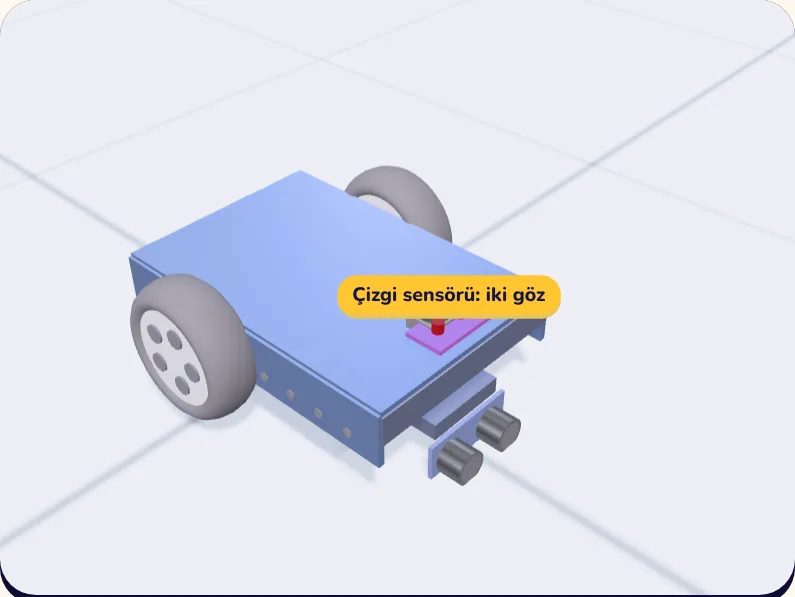
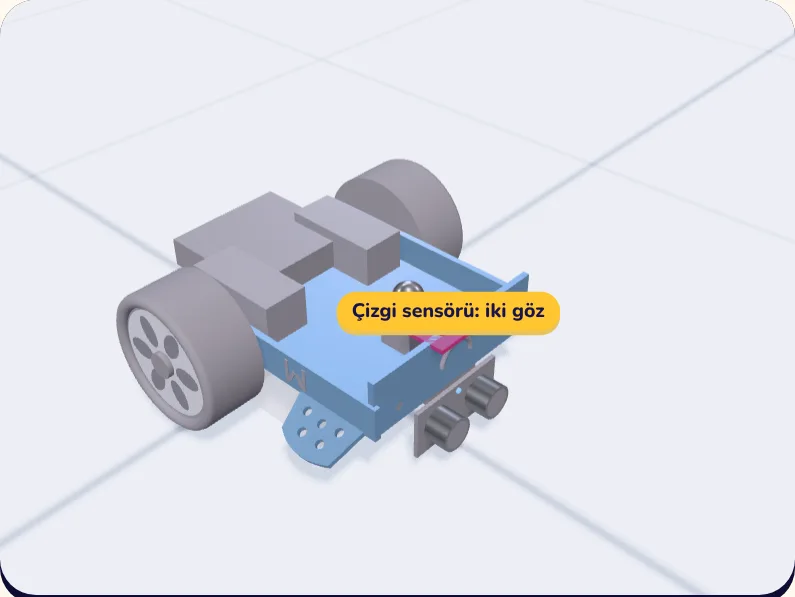
mBot 3D modeli ürün fotoğraflarına göre yenilendi
- Gülen yüzlü ön levha, ön köşelerde kalkık kanatlar, yanlarda "M" harfi
- mCore kartı pirinç ayaklar üstünde yarı saydam kutuda; üstte delik ızgarası ve renkli port etiketleri
- Siyah kartlı ultrasonik sensör, jantlı siyah tekerler
- Tanıtım sahnesi vurgusuz; mesafe sensörü için ayrı sahne

Changed region(s): [[0.1208, 0.2412, 0.7245, 0.8141]]

diff --git a/packages/sahne/src/mbot.ts b/packages/sahne/src/mbot.ts
@@ -1,48 +1,62 @@
-/* mBot (Makeblock, mCore): ürün bilgisinden (yaklaşık 170 × 130 × 90 mm) ve fotoğraflardan sade bir model.
-   - Mavi alüminyum şasi: taban levhası ve iki yanda katlanmış duvar.
-   - Üstte mCore kartı ve şeffaf kapak; kartın önünde iki RGB LED ve ışık sensörü.
-   - Önde ultrasonik mesafe sensörü: mavi kart ve iki gümüş "göz".
-   - Önde altta çizgi izleme sensörü (iki göz); arkada iki teker, önde sarhoş teker (bilye).
+/* mBot (Makeblock, mCore): ürün fotoğraflarından ve ürün bilgisinden (yaklaşık 170 × 130 × 90 mm) modellendi.
+   - Mavi alüminyum şasi: düz üst levha, önde aşağı inen yüz levhası (gülen ağız), iki yanda kısa etek ("M" harfi),
+     ön köşelerde yukarı kalkık delikli "kanatlar".
+   - mCore kartı yarı saydam beyaz bir kutunun içinde, pirinç ayaklar üstünde; kutunun üstünde delik ızgarası, kenarlarda renkli port etiketleri.
+   - Önde siyah kartlı ultrasonik sensör: iki gümüş göz (robotun "yüzü").
+   - Yüzün altında çizgi izleme sensörü; arkada iki büyük siyah teker, önde bilye teker.
    Eksenler: +X ileri, +Y yukarı, +Z sağ; orijin teker ekseninin ortası, yerde. Birim mm, kök 0,001 ölçekli. */
 import * as THREE from "three";
 
 const R = 32;          // teker yarıçapı (çap ≈ 64 mm)
-const TEKER_EN = 24;
-const TEKER_Z = 63;
-const TABAN_Y = 16;
+const TEKER_EN = 26;
+const TEKER_Z = 64;
+const UST_Y = 36;      // üst levhanın üst yüzü
+const ON_X = 92;       // yüz levhasının önü
 
 const M = {
-  sasi: new THREE.MeshStandardMaterial({ color: 0x1e7fd8, roughness: 0.38, metalness: 0.55 }),
-  sasiKoyu: new THREE.MeshStandardMaterial({ color: 0x0f4f93, roughness: 0.4, metalness: 0.5 }),
-  delik: new THREE.MeshStandardMaterial({ color: 0x0a2440, roughness: 0.6 }),
-  lastik: new THREE.MeshStandardMaterial({ color: 0x1b1c1f, roughness: 0.85 }),
-  gobek: new THREE.MeshStandardMaterial({ color: 0xe9edf2, roughness: 0.45 }),
-  pcb: new THREE.MeshStandardMaterial({ color: 0x1d2b4f, roughness: 0.45, metalness: 0.2 }),
-  pcbMavi: new THREE.MeshStandardMaterial({ color: 0x2167c9, roughness: 0.45 }),
-  kapak: new THREE.MeshPhysicalMaterial({ color: 0xdbe8ff, roughness: 0.08, transmission: 0.6, transparent: true, opacity: 0.35 }),
-  gumus: new THREE.MeshStandardMaterial({ color: 0xc9cfd6, roughness: 0.22, metalness: 0.95 }),
-  ag: new THREE.MeshStandardMaterial({ color: 0x2b2f36, roughness: 0.7 }),
+  sasi: new THREE.MeshStandardMaterial({ color: 0x2aa7e8, roughness: 0.32, metalness: 0.55, side: THREE.DoubleSide }),
+  delik: new THREE.MeshStandardMaterial({ color: 0x0b3550, roughness: 0.6, side: THREE.DoubleSide }),
+  agiz: new THREE.MeshStandardMaterial({ color: 0x0d2a40, roughness: 0.5 }),
+  lastik: new THREE.MeshStandardMaterial({ color: 0x18191c, roughness: 0.85, side: THREE.DoubleSide }),
+  dis: new THREE.MeshStandardMaterial({ color: 0xdfe3e8, roughness: 0.5, side: THREE.DoubleSide }),
+  gobek: new THREE.MeshStandardMaterial({ color: 0x2b2d31, roughness: 0.5 }),
+  kutu: new THREE.MeshPhysicalMaterial({ color: 0xf3f5f7, roughness: 0.35, transmission: 0.3, transparent: true, opacity: 0.72, depthWrite: false }),
+  kutuKenar: new THREE.MeshStandardMaterial({ color: 0xe6e9ed, roughness: 0.4 }),
+  pcb: new THREE.MeshStandardMaterial({ color: 0x1c3f7a, roughness: 0.45 }),
+  pcbSiyah: new THREE.MeshStandardMaterial({ color: 0x141518, roughness: 0.45 }),
+  gumus: new THREE.MeshStandardMaterial({ color: 0xcfd4da, roughness: 0.2, metalness: 0.95 }),
+  ag: new THREE.MeshStandardMaterial({ color: 0x3a3e45, roughness: 0.7, side: THREE.DoubleSide }),
+  pirinc: new THREE.MeshStandardMaterial({ color: 0xc9a24a, roughness: 0.3, metalness: 0.9 }),
   siyah: new THREE.MeshStandardMaterial({ color: 0x111215, roughness: 0.5 }),
   beyaz: new THREE.MeshStandardMaterial({ color: 0xf1f2f4, roughness: 0.5 }),
-  ledK: new THREE.MeshStandardMaterial({ color: 0xff4d6d, emissive: 0xff2050, emissiveIntensity: 0.7, roughness: 0.3 }),
-  ledM: new THREE.MeshStandardMaterial({ color: 0x4dd2ff, emissive: 0x20a0ff, emissiveIntensity: 0.7, roughness: 0.3 }),
-  motor: new THREE.MeshStandardMaterial({ color: 0x3a3d44, roughness: 0.5 }),
-  pil: new THREE.MeshStandardMaterial({ color: 0x16171a, roughness: 0.7 })
+  sari: new THREE.MeshStandardMaterial({ color: 0xf6c23e, roughness: 0.5 }),
+  mavi: new THREE.MeshStandardMaterial({ color: 0x3d7be0, roughness: 0.5 }),
+  ledK: new THREE.MeshStandardMaterial({ color: 0xff4d6d, emissive: 0xff2050, emissiveIntensity: 0.8, roughness: 0.3 }),
+  ledM: new THREE.MeshStandardMaterial({ color: 0x4dd2ff, emissive: 0x20a0ff, emissiveIntensity: 0.8, roughness: 0.3 }),
+  motor: new THREE.MeshStandardMaterial({ color: 0x3a3d44, roughness: 0.5 })
 };
 function kutu(w: number, h: number, d: number, m: THREE.Material, x = 0, y = 0, z = 0) { const k = new THREE.Mesh(new THREE.BoxGeometry(w, h, d), m); k.position.set(x, y, z); return k; }
 function silindir(r: number, h: number, m: THREE.Material, seg = 24) { return new THREE.Mesh(new THREE.CylinderGeometry(r, r, h, seg), m); }
 function golgeli<T extends THREE.Object3D>(o: T): T { o.traverse((c) => { if ((c as THREE.Mesh).isMesh) { c.castShadow = true; c.receiveShadow = true; } }); return o; }
+/** dikey levhaya yapışan koyu delik; yuz: "x" öne bakan levha, "z" yana bakan levha */
+function delik(x: number, y: number, z: number, yuz: "x" | "z", r = 2) {
+  const d = new THREE.Mesh(new THREE.CircleGeometry(r, 14), M.delik);
+  if (yuz === "x") d.rotation.y = Math.PI / 2;
+  d.position.set(x, y, z); return d;
+}
 
-function teker(): THREE.Group {
+/** Fotoğraftaki teker: kalın siyah lastik, dış yüzde açık gri jant, altı boşluk ve koyu göbek */
+function teker(dis: 1 | -1): THREE.Group {
   const g = new THREE.Group();
-  const lastik = new THREE.Mesh(new THREE.TorusGeometry(R - 6, 6.5, 14, 40), M.lastik);
-  lastik.scale.set(1, 1, TEKER_EN / 13); g.add(lastik);
-  const gobek = silindir(R - 9, TEKER_EN - 4, M.gobek, 32); gobek.rotation.x = Math.PI / 2; g.add(gobek);
-  /* göbekte beş kol boşluğu */
-  for (let i = 0; i < 5; i++) {
-    const d = silindir(4.5, TEKER_EN - 2, M.delik, 12); d.rotation.x = Math.PI / 2;
-    const a = (i / 5) * Math.PI * 2; d.position.set(Math.cos(a) * 13, Math.sin(a) * 13, 0); g.add(d);
+  const lastik = silindir(R, TEKER_EN, M.lastik, 48); lastik.rotation.x = Math.PI / 2; g.add(lastik);
+  const yz = dis * (TEKER_EN / 2);
+  const yanak = new THREE.Mesh(new THREE.TorusGeometry(R - 3, 3, 10, 48), M.lastik); yanak.position.z = yz; g.add(yanak);
+  const jant = new THREE.Mesh(new THREE.CircleGeometry(R - 7, 40), M.dis); jant.position.z = yz + dis * 0.3; g.add(jant);
+  for (let i = 0; i < 6; i++) {
+    const b = new THREE.Mesh(new THREE.CircleGeometry(4.6, 16), M.lastik); b.scale.set(1, 1.6, 1);
+    const a = (i / 6) * Math.PI * 2; b.position.set(Math.cos(a) * 15, Math.sin(a) * 15, yz + dis * 0.6); b.rotation.z = a + Math.PI / 2; g.add(b);
   }
+  const gob = silindir(6, 4, M.gobek, 20); gob.rotation.x = Math.PI / 2; gob.position.z = yz + dis * 1; g.add(gob);
   return golgeli(g);
 }
 
@@ -57,52 +71,82 @@ export function mbot(): MbotModeli {
   const parcalar = { tekerler: new THREE.Group(), ultrasonik: new THREE.Group(), cizgiSensoru: new THREE.Group(), isikSensoru: new THREE.Group(), ledler: new THREE.Group(), kart: new THREE.Group(), motorlar: new THREE.Group() };
   Object.values(parcalar).forEach((g) => ic.add(g));
 
-  /* şasi: taban levhası (x -55…100) ve yan duvarlar; duvarlarda delik sırası */
+  /* ---- şasi ---- */
   const sasi = new THREE.Group();
-  sasi.add(kutu(155, 3, 104, M.sasi, 22, TABAN_Y, 0));
-  for (const z of [-52, 52]) {
-    sasi.add(kutu(155, 26, 3, M.sasi, 22, TABAN_Y + 13, z));
-    for (let i = 0; i < 9; i++) { const d = silindir(2.2, 4, M.delik, 10); d.rotation.x = Math.PI / 2; d.position.set(-45 + i * 16, TABAN_Y + 18, z); sasi.add(d); }
+  sasi.add(kutu(ON_X + 48, 3, 96, M.sasi, (ON_X - 48) / 2, UST_Y - 1.5, 0));                   // üst levha (x -48…92)
+  sasi.add(kutu(3, 28, 96, M.sasi, ON_X - 1.5, UST_Y - 14, 0));                               // yüz levhası
+  for (const s of [-1, 1]) {
+    sasi.add(kutu(ON_X + 30, 16, 3, M.sasi, (ON_X - 30) / 2 + 2, UST_Y - 9, s * 48));          // yan etek
+    for (let i = 0; i < 3; i++) sasi.add(delik(-22 + i * 14, UST_Y - 9, s * 49.6, "z", 1.8));
+    /* yan etekte "M" harfi */
+    const mz = s * 49.7, mx = 50, my = UST_Y - 9;
+    for (const [dx, a, h] of [[-5, 0, 11], [5, 0, 11], [-2.5, 0.5, 7], [2.5, -0.5, 7]] as const) {
+      const c = kutu(1.8, h, 0.4, M.agiz, mx + dx, my + (h < 10 ? 2 : 0), mz); c.rotation.z = a; sasi.add(c);
+    }
   }
-  /* önde aşağı katlanan burun */
-  const burun = kutu(3, 14, 104, M.sasiKoyu, 99, TABAN_Y + 8, 0); sasi.add(burun);
+  /* yüz: gülen ağız (aşağı bakan yarım halka) ve iki küçük delik */
+  const agiz = new THREE.Mesh(new THREE.TorusGeometry(9, 1.3, 8, 24, Math.PI), M.agiz);
+  agiz.rotation.set(Math.PI, Math.PI / 2, 0); agiz.position.set(ON_X + 0.3, UST_Y - 12, 0); sasi.add(agiz);
+  for (const z of [-34, 34]) sasi.add(delik(ON_X + 0.2, UST_Y - 8, z, "x"));
+  /* ön köşelerde dışa doğru yukarı kalkık kanatlar */
+  for (const s of [-1, 1]) {
+    const sekil = new THREE.Shape(); sekil.moveTo(0, 0); sekil.lineTo(36, 0); sekil.lineTo(32, 20); sekil.quadraticCurveTo(16, 27, 4, 18); sekil.closePath();
+    for (const [hx, hy] of [[9, 7], [18, 8], [27, 7], [13, 15], [23, 15]]) { const h = new THREE.Path(); h.absarc(hx, hy, 2, 0, Math.PI * 2, true); sekil.holes.push(h); }
+    const m = new THREE.Mesh(new THREE.ExtrudeGeometry(sekil, { depth: 2.5, bevelEnabled: false, curveSegments: 10 }), M.sasi);
+    /* şekil x → robot x, şekil y → yana (dışa) */
+    m.rotation.x = s * Math.PI / 2;
+    const kanat = new THREE.Group(); kanat.add(m);
+    kanat.position.set(52, UST_Y - 3, s * 48);
+    kanat.rotation.x = s * -0.5;           // dış kenar yukarı kalkık
+    sasi.add(kanat);
+  }
   ic.add(golgeli(sasi));
 
-  /* motorlar şasinin içinde, teker hizasında */
-  for (const z of [-34, 34]) parcalar.motorlar.add(golgeli(kutu(46, 22, 20, M.motor, 0, R, z)));
-  /* pil yuvası arkada, şasinin içinde */
-  ic.add(golgeli(kutu(58, 16, 62, M.pil, -28, TABAN_Y + 10, 0)));
+  /* motorlar şasinin altında, teker hizasında */
+  for (const z of [-30, 30]) parcalar.motorlar.add(golgeli(kutu(48, 20, 22, M.motor, 0, UST_Y - 14, z)));
+  /* pil yuvası arkada, şasinin altında */
+  ic.add(golgeli(kutu(56, 14, 60, M.siyah, -26, UST_Y - 12, 0)));
 
   /* tekerler */
   const tekerler: THREE.Group[] = [];
-  for (const z of [-TEKER_Z, TEKER_Z]) { const t = teker(); t.position.set(0, R, z); parcalar.tekerler.add(t); tekerler.push(t); }
-  /* önde sarhoş teker: bilye */
-  const bilye = new THREE.Mesh(new THREE.SphereGeometry(7, 16, 12), M.gumus); bilye.position.set(80, 7, 0); ic.add(golgeli(bilye));
-  ic.add(golgeli(kutu(16, 8, 16, M.siyah, 80, 12, 0)));
+  for (const s of [-1, 1] as const) { const t = teker(s); t.position.set(0, R, s * TEKER_Z); parcalar.tekerler.add(t); tekerler.push(t); }
+  /* önde bilye teker */
+  const bilye = new THREE.Mesh(new THREE.SphereGeometry(7, 16, 12), M.gumus); bilye.position.set(66, 7, 0); ic.add(golgeli(bilye));
+  ic.add(golgeli(kutu(16, UST_Y - 16, 16, M.siyah, 66, (UST_Y + 8) / 2 - 2, 0)));
 
-  /* mCore kartı ve şeffaf kapak */
-  const kartY = TABAN_Y + 28;
-  parcalar.kart.add(golgeli(kutu(92, 2, 86, M.pcb, 18, kartY, 0)));
-  for (const [x, z, w, d] of [[40, -22, 14, 10], [5, 18, 18, 12], [-10, -18, 10, 10]] as const) parcalar.kart.add(golgeli(kutu(w, 4, d, M.siyah, x, kartY + 3, z)));
-  for (const z of [-32, -12, 8, 28]) parcalar.kart.add(golgeli(kutu(10, 9, 12, M.beyaz, -22, kartY + 5, z)));   // RJ25 yuvaları
-  const kapak = kutu(96, 22, 90, M.kapak, 18, kartY + 12, 0); kapak.castShadow = false; parcalar.kart.add(kapak);
-  /* kartın önünde iki RGB LED ve ortada ışık sensörü */
-  for (const [z, m] of [[-24, M.ledK], [24, M.ledM]] as const) { const l = new THREE.Mesh(new THREE.SphereGeometry(3.2, 14, 10), m); l.position.set(58, kartY + 3, z); parcalar.ledler.add(l); }
-  const isik = new THREE.Mesh(new THREE.SphereGeometry(3.4, 14, 10, 0, Math.PI * 2, 0, Math.PI / 2), M.beyaz); isik.position.set(58, kartY + 1, 0); parcalar.isikSensoru.add(golgeli(isik));
-  parcalar.isikSensoru.add(golgeli(silindir(4.4, 1.6, M.siyah, 16).translateX(58).translateY(kartY + 0.8)));
+  /* ---- mCore: pirinç ayaklar, kart, yarı saydam kutu ---- */
+  const k = parcalar.kart;
+  const kutuY = UST_Y + 8;            // kutunun alt yüzü
+  for (const [x, z] of [[-30, -34], [-30, 34], [44, -34], [44, 34]]) { const a = silindir(2.5, 8, M.pirinc, 8); a.position.set(x, UST_Y + 4, z); k.add(golgeli(a)); }
+  k.add(golgeli(kutu(86, 1.6, 78, M.pcb, 7, kutuY + 3, 0)));
+  for (const [x, z, w, d] of [[30, -18, 14, 10], [0, 16, 18, 12], [-16, -16, 10, 10]] as const) k.add(kutu(w, 4, d, M.siyah, x, kutuY + 6, z));
+  const kap = new THREE.Mesh(new THREE.BoxGeometry(94, 40, 86), M.kutu); kap.position.set(7, kutuY + 20, 0); kap.castShadow = true; k.add(kap);
+  /* üst kenar çerçevesi (ortası açık: kapak yarı saydam, içi görünür) */
+  for (const z of [-42.5, 42.5]) k.add(kutu(96, 3, 3, M.kutuKenar, 7, kutuY + 40, z));
+  for (const x of [-39.5, 53.5]) k.add(kutu(3, 3, 88, M.kutuKenar, x, kutuY + 40, 0));
+  for (let i = 0; i < 5; i++) for (let j = 0; j < 4; j++) { const d = silindir(2.2, 0.6, M.ag, 10); d.position.set(-6 + i * 8, kutuY + 41.6, -12 + j * 8); k.add(d); }
+  const renkler = [M.sari, M.mavi, M.beyaz, M.siyah, M.sari, M.mavi];
+  renkler.forEach((m, i) => { k.add(kutu(9, 1, 5, m, -28 + i * 11, kutuY + 41.7, -38)); k.add(kutu(9, 1, 5, renkler[(i + 2) % 6], -28 + i * 11, kutuY + 41.7, 38)); });
+  /* kartın önünde iki RGB LED ve ortada ışık sensörü (kutunun içinden görünür) */
+  for (const [z, m] of [[-22, M.ledK], [22, M.ledM]] as const) { const l = new THREE.Mesh(new THREE.SphereGeometry(3.2, 14, 10), m); l.position.set(48, kutuY + 6, z); parcalar.ledler.add(l); }
+  const isik = new THREE.Mesh(new THREE.SphereGeometry(3.6, 14, 10, 0, Math.PI * 2, 0, Math.PI / 2), M.beyaz); isik.position.set(48, kutuY + 4.6, 0); parcalar.isikSensoru.add(golgeli(isik));
+  const isikTaban = silindir(4.6, 1.6, M.siyah, 16); isikTaban.position.set(48, kutuY + 4, 0); parcalar.isikSensoru.add(isikTaban);
 
-  /* ultrasonik sensör: önde dik mavi kart, iki gümüş göz */
+  /* ---- ultrasonik sensör: siyah kart, iki gümüş göz ---- */
   const us = parcalar.ultrasonik;
-  us.add(golgeli(kutu(14, 8, 40, M.sasiKoyu, 92, TABAN_Y + 32, 0)));
-  us.add(golgeli(kutu(2, 22, 48, M.pcbMavi, 100, TABAN_Y + 48, 0)));
+  const usY = UST_Y + 14;
+  us.add(golgeli(kutu(10, 6, 30, M.siyah, ON_X - 6, UST_Y + 3, 0)));
+  us.add(golgeli(kutu(2, 24, 50, M.pcbSiyah, ON_X + 1, usY, 0)));
   for (const z of [-13, 13]) {
-    const goz = silindir(8, 12, M.gumus, 28); goz.rotation.z = -Math.PI / 2; goz.position.set(107, TABAN_Y + 48, z); us.add(golgeli(goz));
-    const ag = new THREE.Mesh(new THREE.CircleGeometry(6.4, 24), M.ag); ag.rotation.y = Math.PI / 2; ag.position.set(113.1, TABAN_Y + 48, z); us.add(ag);
+    const goz = silindir(8, 11, M.gumus, 28); goz.rotation.z = -Math.PI / 2; goz.position.set(ON_X + 7.5, usY, z); us.add(golgeli(goz));
+    const ag = new THREE.Mesh(new THREE.CircleGeometry(6.6, 24), M.ag); ag.rotation.y = Math.PI / 2; ag.position.set(ON_X + 13.1, usY, z); us.add(ag);
   }
-  /* çizgi sensörü: önde altta, iki göz aşağı bakar */
+  const usLed = new THREE.Mesh(new THREE.SphereGeometry(1.4, 10, 8), M.ledM); usLed.position.set(ON_X + 2.2, usY - 9, 0); us.add(usLed);
+
+  /* ---- çizgi sensörü: yüzün altında, öne taşan küçük kart; iki göz aşağı bakar ---- */
   const cs = parcalar.cizgiSensoru;
-  cs.add(golgeli(kutu(18, 2, 32, M.pcbMavi, 88, TABAN_Y - 6, 0)));
-  cs.add(golgeli(kutu(6, 6, 8, M.sasiKoyu, 88, TABAN_Y - 2, 0)));
-  for (const z of [-7, 7]) { const g = silindir(2.6, 5, M.siyah, 12); g.position.set(88, TABAN_Y - 9.5, z); cs.add(golgeli(g)); }
+  cs.add(golgeli(kutu(20, 2, 32, M.pcb, ON_X - 4, 9, 0)));
+  cs.add(golgeli(kutu(8, UST_Y - 12, 8, M.siyah, ON_X - 10, (UST_Y + 10) / 2, 0)));
+  for (const z of [-7, 7]) { const g = silindir(2.6, 5, M.siyah, 12); g.position.set(ON_X - 2, 5.5, z); cs.add(golgeli(g)); }
   return { kok, parcalar, tekerler };
 }

diff --git a/packages/mufredat/src/gorseller.ts b/packages/mufredat/src/gorseller.ts
@@ -50,9 +50,13 @@ export const SAHNE_ANLARI: Record<string, SahneAni> = {
     aciklama: "Kenshin yakından: üstündeki küçük kart, hakemin kumandasından gelen başla sinyalini alan start modülü."
   },
   "mbot-onden": {
+    robot: "mBot", aci: "onden", zemin: "duz",
+    aciklama: "mBot önden: mavi alüminyum gövde ve gülen yüz, üstte yarı saydam kutuda kartı, önde iki gümüş gözlü mesafe sensörü, arkada iki siyah teker."
+  },
+  "mbot-ultrasonik": {
     robot: "mBot", aci: "onden", zemin: "duz", hareket: "nabiz",
     vurgu: { parca: "ultrasonik", etiket: "Mesafe sensörü" },
-    aciklama: "mBot önden: mavi alüminyum gövde, üstte şeffaf kapaklı kart, önde iki gümüş gözlü ultrasonik mesafe sensörü."
+    aciklama: "mBot önden, mesafe sensörü vurgulu: siyah kartın üstünde iki gümüş göz; biri dalgayı yollar, öteki geri geleni dinler."
   },
   "mbot-tekerler": {
     robot: "mBot", aci: "yandan", zemin: "duz",
@@ -65,9 +69,9 @@ export const SAHNE_ANLARI: Record<string, SahneAni> = {
     aciklama: "mBot ters çevrilmiş, altı görünüyor: önde çizgi sensörü ve yere bakan iki gözü; arkada iki teker."
   },
   "mbot-kart": {
-    robot: "mBot", aci: "ustten", zemin: "duz", hareket: "nabiz",
-    vurgu: { parca: "isikSensoru", etiket: "Işık sensörü ve iki ışık (LED)" },
-    aciklama: "mBot üstten: şeffaf kapağın altında mCore kartı (robotun beyni); önünde iki renkli ışık ve ortada ışık sensörü."
+    robot: "mBot", aci: "yakin", zemin: "duz", hareket: "nabiz",
+    vurgu: { parca: "isikSensoru", etiket: "Işık sensörü" },
+    aciklama: "mBot yakından: yarı saydam kutunun içinde mCore kartı (robotun beyni); kartın önünde iki renkli ışık ve ortada ışık sensörü."
   },
   "rizbot-labirentte": {
     robot: "RizBot", aci: "onden", zemin: "labirent", hareket: "nabiz",

diff --git a/apps/portal/src/gorsel/sahne-ani.ts b/apps/portal/src/gorsel/sahne-ani.ts
@@ -37,11 +37,11 @@ const RIZBOT_ACILARI: Partial<typeof ACILAR> = {
 
 /** mBot büyük (17 cm) ve yüksek: kamera daha uzakta; robotun ortası x ≈ 0,03 */
 const MBOT_ACILARI: Partial<typeof ACILAR> = {
-  onden: [[0.42, 0.24, 0.3], [0.03, 0.04, 0]],
+  onden: [[0.36, 0.2, -0.24], [0.04, 0.04, 0]],
   yandan: [[0.04, 0.22, 0.46], [0.03, 0.03, 0]],
   ustten: [[0.06, 0.48, 0.1], [0.04, 0, 0]],
   alttan: [[0.28, 0.3, 0.24], [0.06, 0.06, 0]],
-  yakin: [[0.3, 0.12, 0.14], [0.08, 0.05, 0]]
+  yakin: [[0.2, 0.17, -0.1], [0.05, 0.05, 0]]
 };
 
 export function sahneAniKur(ad: string, an: SahneAni): SahneOynatici {

diff --git a/packages/mufredat/src/dersler/mbot.ts b/packages/mufredat/src/dersler/mbot.ts
@@ -96,7 +96,7 @@ export const SENSOR_NE_GORUR: DersTanimi = {
     { bit: "sasiriyor", metin: M.yanki, gorsel: { tur: "cizim", ad: "ultrasonik-yanki" } },
     {
       bit: "dusunuyor", metin: "Yarasalar da karanlıkta böyle yol bulur! Peki robot bir duvara yaklaşırsa ne olur?",
-      gorsel: { tur: "sahne", ad: "mbot-onden" },
+      gorsel: { tur: "sahne", ad: "mbot-ultrasonik" },
       soru: {
         soru: "mBot duvara yaklaştı. Mesafe sensörü ne gösterir?",
         secenekler: [{ metin: "Daha küçük bir sayı", dogru: true }, { metin: "Daha büyük bir sayı" }, { metin: "Hiç değişmez" }],
